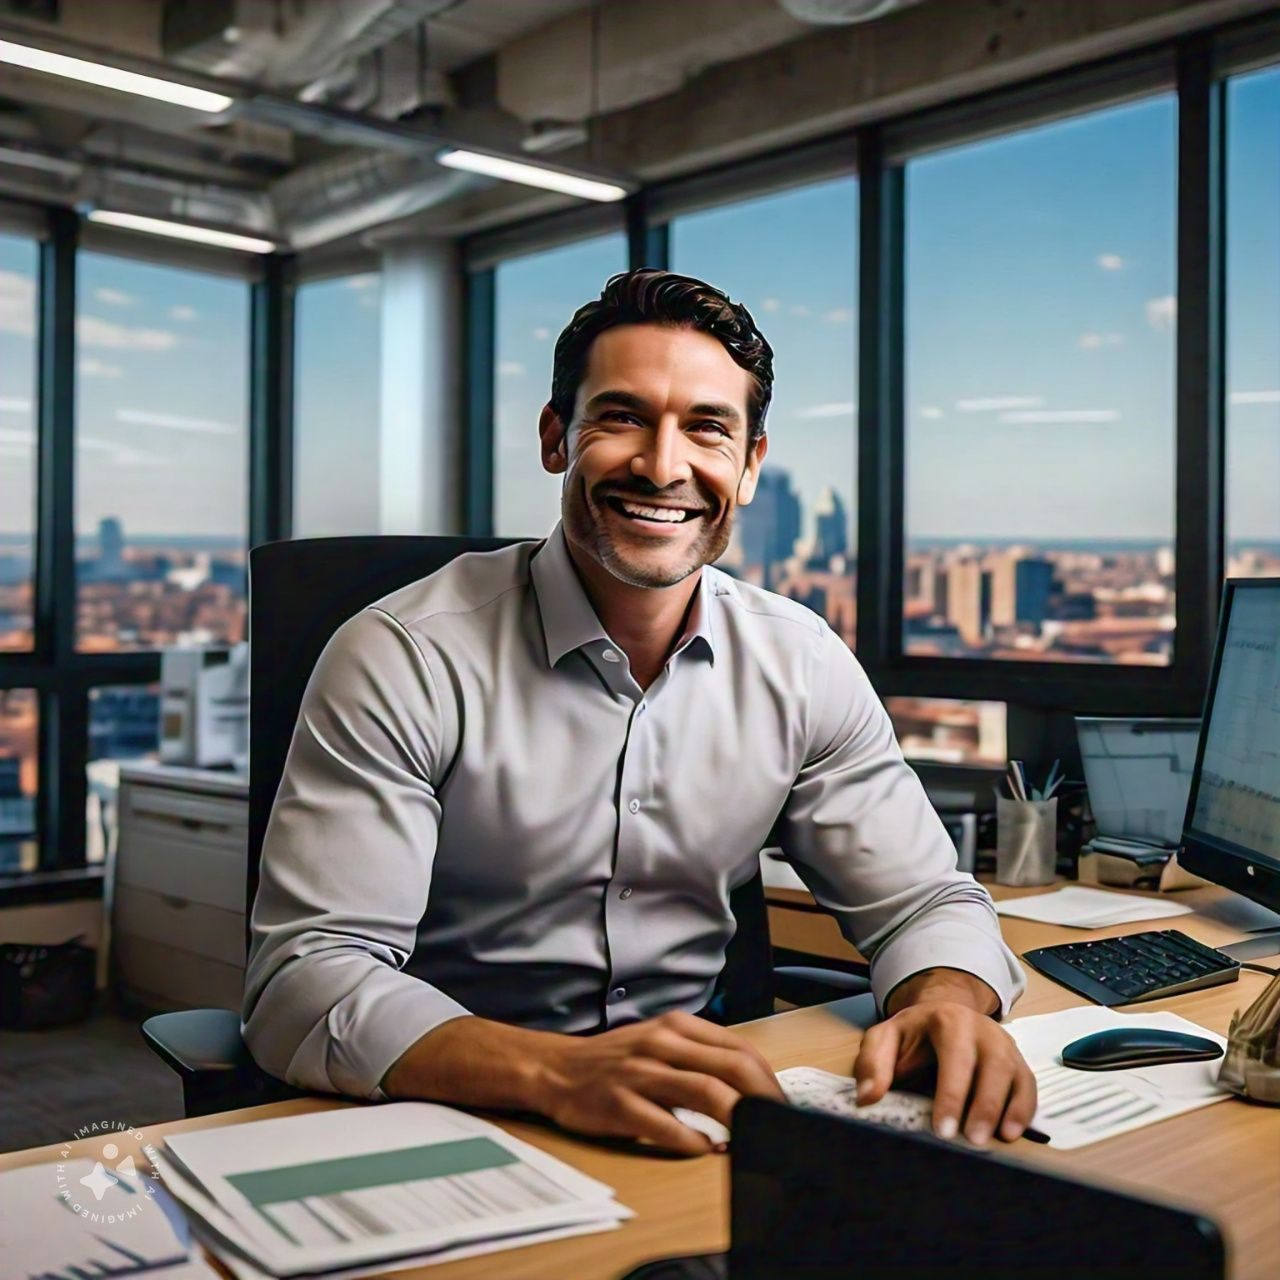
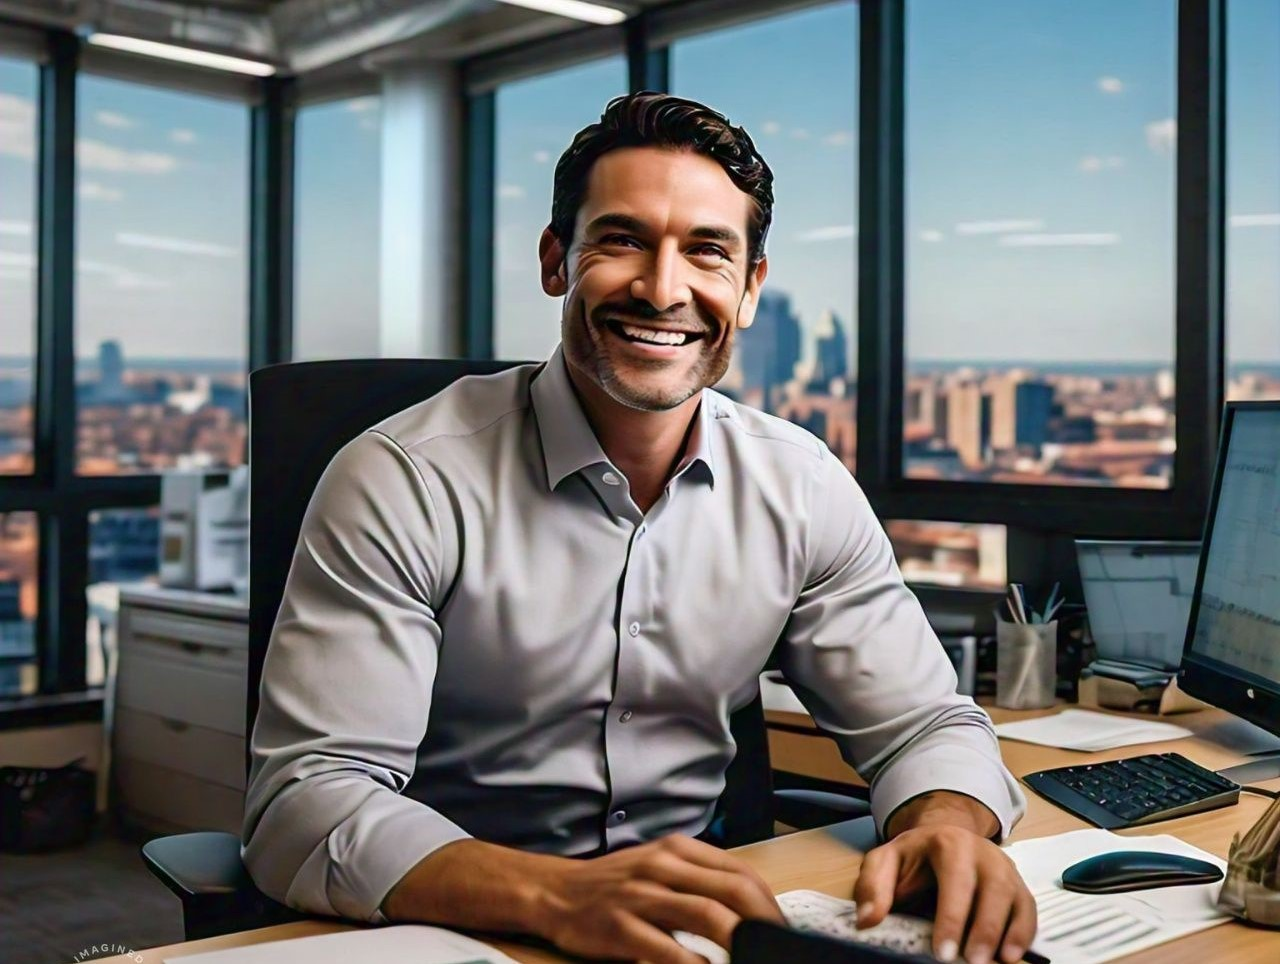
adjusted image

diff --git a/src/App.css b/src/App.css
@@ -273,8 +273,7 @@ p {
   overflow: hidden;
 }
 .heroSection .container .image img {
-  /* width: 100%; */
-  width: auto;
+  width: 100%;
   height: 100%;
 }
 .heroSection .details {
